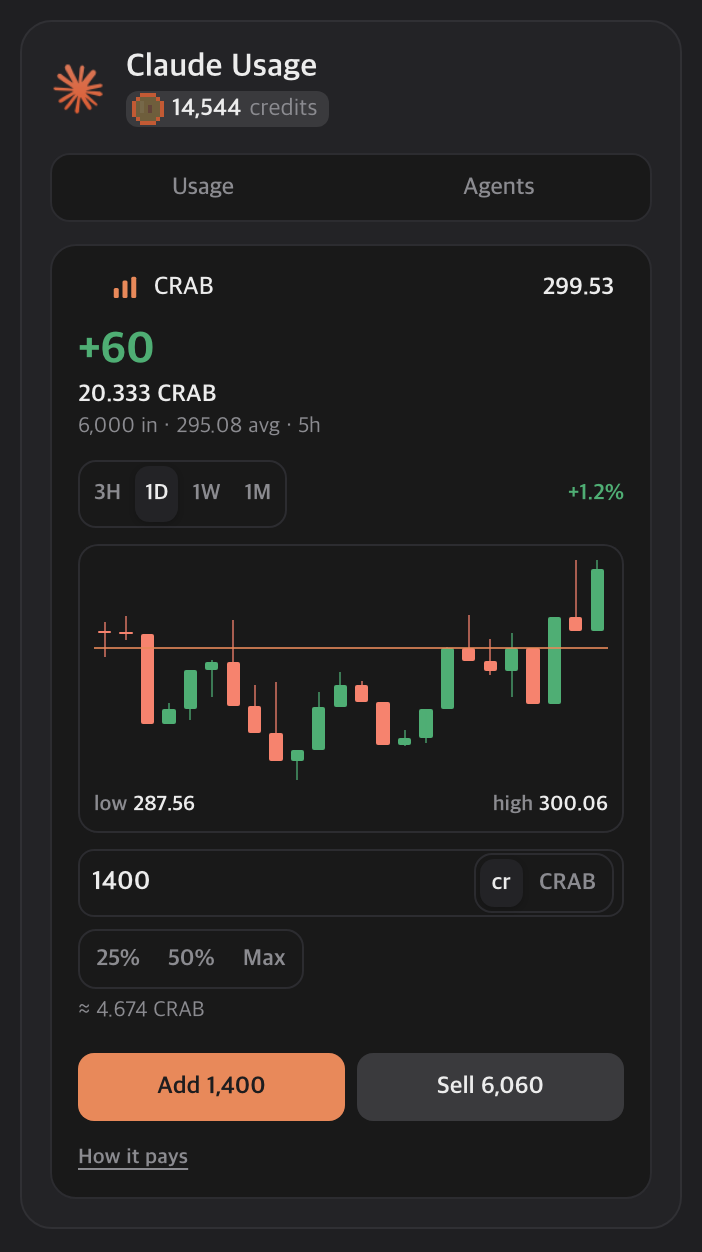
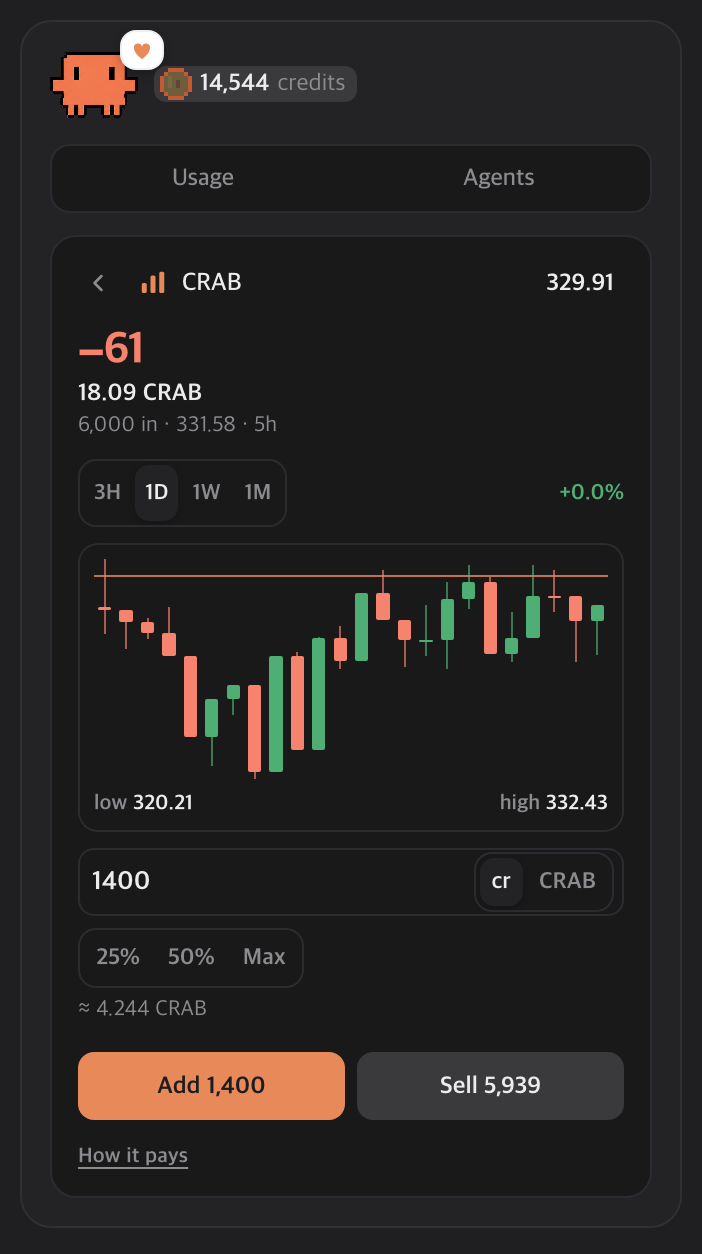
chore(claude-usage-crab): 리스팅 그림 12장 갱신, Open VSX 절차 기록
머리글이 1.32.x 에서 바뀌었는데 media/ 는 그대로였다. 게임 5종과 주간
시트를 라이트·다크로 다시 떴다. 엔진이 시드로 만든 진짜 라운드라 도구가
그대로 찍는다.

usage-panel.png 와 agents-*.png 는 안 찍었다. 도구의 그 샷들은
measure: true 라 tools/.measure 로만 나가고, 사용량 수치를 지어내서
리스팅에 올리지 않는다는 판단이 머리말에 있다. 사람이 자기 화면을 찍어야
하고, 안 찍으면 영원히 낡는다. usage-panel.png 는 오늘 기준 2026-07-28
캡처였다. CLAUDE.md 에 그 갈림을 적었다.

Open VSX 는 네임스페이스부터 없다(saegim: Namespace not found). Cursor
계열이 검색으로 이 확장을 못 찾는다는 뜻이다. 토큰 발급은 사람이 하고
그 뒤 create-namespace 와 publish 두 줄이다. 순서는 MS 마켓 발행 뒤.

diff --git a/CLAUDE.md b/CLAUDE.md
@@ -76,6 +76,46 @@ games/<id>/panel.js   화면. 웹뷰 스크립트로 로드된다
 - 공개 미러: github `gnldnd11` (remote `usage-monitor`, subtree)
 - 상세 절차와 보안 체크리스트는 저장소 문서 참조
 
+### Open VSX (미등록, 2026-11-20 확인)
+
+Cursor·Windsurf 같은 VS Code 포크는 MS 마켓을 못 쓰고 **Open VSX** 를 본다.
+거기 없으면 그 사람들은 이 확장을 **검색으로 못 찾는다.** 코드 변경은 없고 발행만 추가하면 된다.
+
+```
+현재   https://open-vsx.org/api/saegim  ->  Namespace not found
+```
+
+**사람이 먼저 해야 하는 두 가지.** 토큰은 사용자 것이고 세션이 찾지 않는다.
+
+```
+1. open-vsx.org 에 GitHub 로 로그인
+2. Settings -> Access Tokens 에서 토큰 발급
+```
+
+그 뒤는 명령 둘이다. `vsce` 와 같이 `npx` 로 부르고 패키지를 설치하지 않는다.
+
+```
+npx ovsx create-namespace saegim -p <토큰>
+npx ovsx publish -p <토큰>
+```
+
+**순서는 MS 마켓 발행 뒤**다. 둘이 어긋나면 포크 쪽이 구버전을 받는데, 먼저 올려 두면 되돌릴 방법이 없다.
+
+## 리스팅 그림
+
+`media/` 가 README 와 마켓 첫 화면에 그대로 나간다. 둘로 갈린다.
+
+| 무엇 | 어떻게 | 왜 |
+|---|---|---|
+| 게임 5종 + 주간 시트 (라이트·다크 12장) | `node tools/shoot-panels.mjs` | 엔진이 시드로 만든 **진짜 라운드**다 |
+| `usage-panel.png`, `agents-*.png` 등 | **사람이 자기 화면을 캡처** | 사용량 수치는 지어낼 수밖에 없고, **지어낸 숫자를 리스팅에 올리지 않는다** |
+
+도구에 `usage`·`agents`·`cross`·`shop` 샷이 있지만 **`measure: true` 라 `tools/.measure/` 로만 나간다.**
+그 선은 의도된 것이다(`tools/shoot-panels.mjs` 머리말). 바꾸려면 그 판단부터 뒤집어야 한다.
+
+**그래서 사람이 안 찍으면 그 그림들은 영원히 낡는다.** 2026-11-20 에 `usage-panel.png` 가
+2026-07-28 캡처였다. 머리글도 탭 배지도 막대 수도 지금 제품과 달랐다. 화면을 크게 고치면 같이 찍는다.
+
 ## 방 테마 추가
 
 방은 **정사각형이 아니라 1.8:1 실내 비네트**다.
